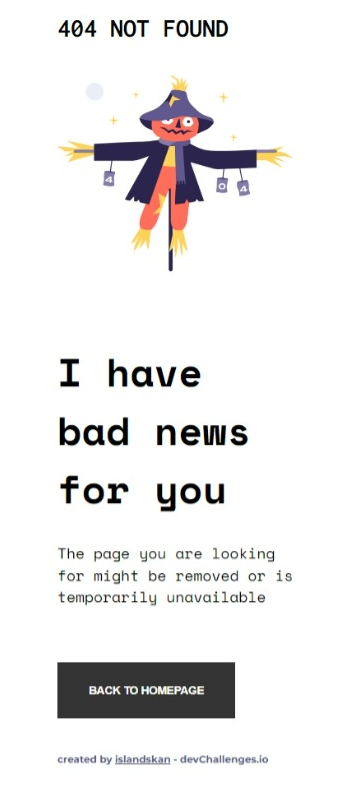
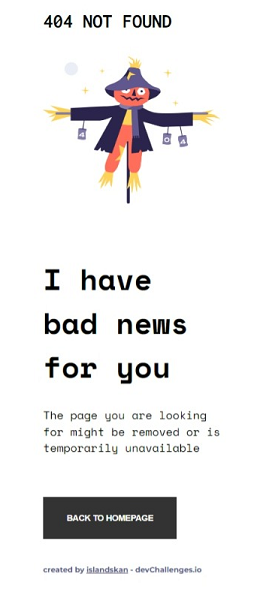
fix mobile preview image. Add url to live demo page

diff --git a/README.md b/README.md
@@ -29,7 +29,7 @@ The page looks like the given design.<br>
 
 <hr>
 
-**Where:** <br> Demo is available at [Github repo](https://github.com/islandskan/devchallenges-responsive-404.git) and as a live app through [Netlify](https://www.netlify.com/) <br>
+**Where:** <br> Demo is available at [Github repo](https://github.com/islandskan/devchallenges-responsive-404.git) and as a live app through [Netlify](https://islandskan-404-not-found-demo.netlify.app/) <br>
 
 **Experience and what I learned:**<br>
 When I started to adjust the design for different screen sizes, I struggled a bit because I started from the desktop design and tried to work my way down in screen size. I changed my strategy and started the other way around, by building the layout based on the smallest breakpoint at 375px. After that, I built the layout for the largest breakpoint at 1025 px and more. This made it easier to adjust the design in between these breakpoints.<br>
